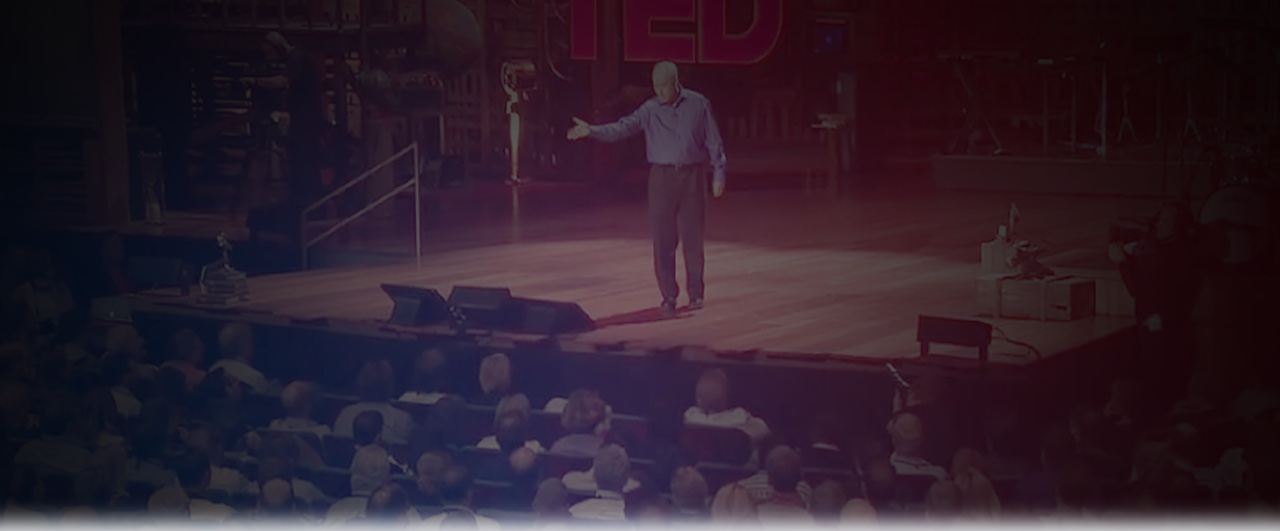
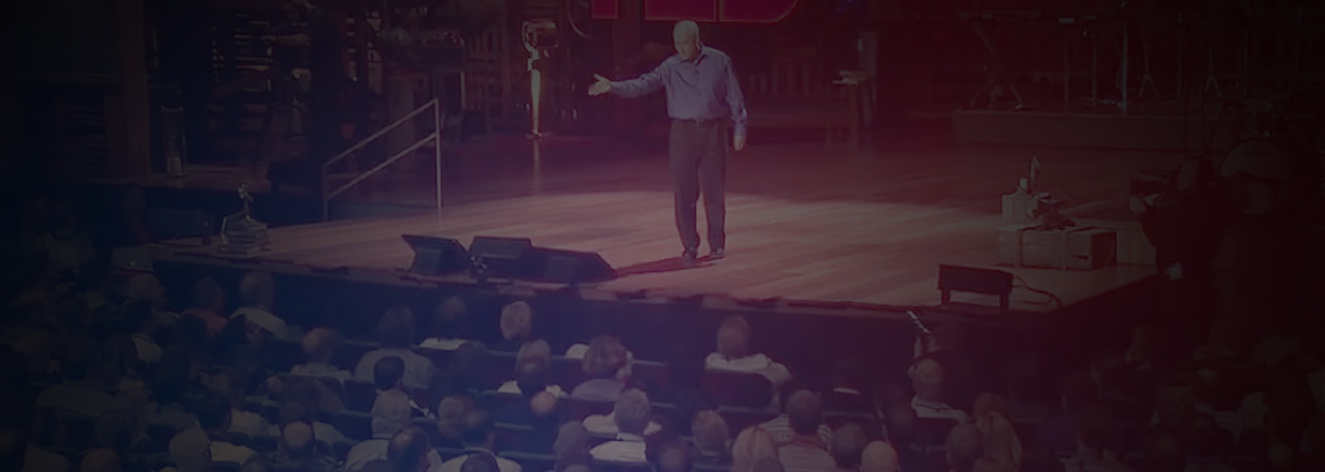
changed image back

diff --git a/css/agency.css b/css/agency.css
@@ -310,7 +310,7 @@ header {
     text-align: center;
     color: #ecf0f1;
     background-attachment: scroll;
-    background-image: url(../img/headerbackground2.jpg);
+    background-image: url(../img/headerbackground.jpg);
     background-position: center center;
     background-repeat: none;
     -webkit-background-size: cover;

diff --git a/index.html b/index.html
@@ -62,7 +62,6 @@
     <!-- Partners Aside -->
     <div id="partners">
         <div>
-            <h2>partners</h2>
             <div class="col-xs-2">                    
             </div>
             <div id="logos" class="col-xs-8">
